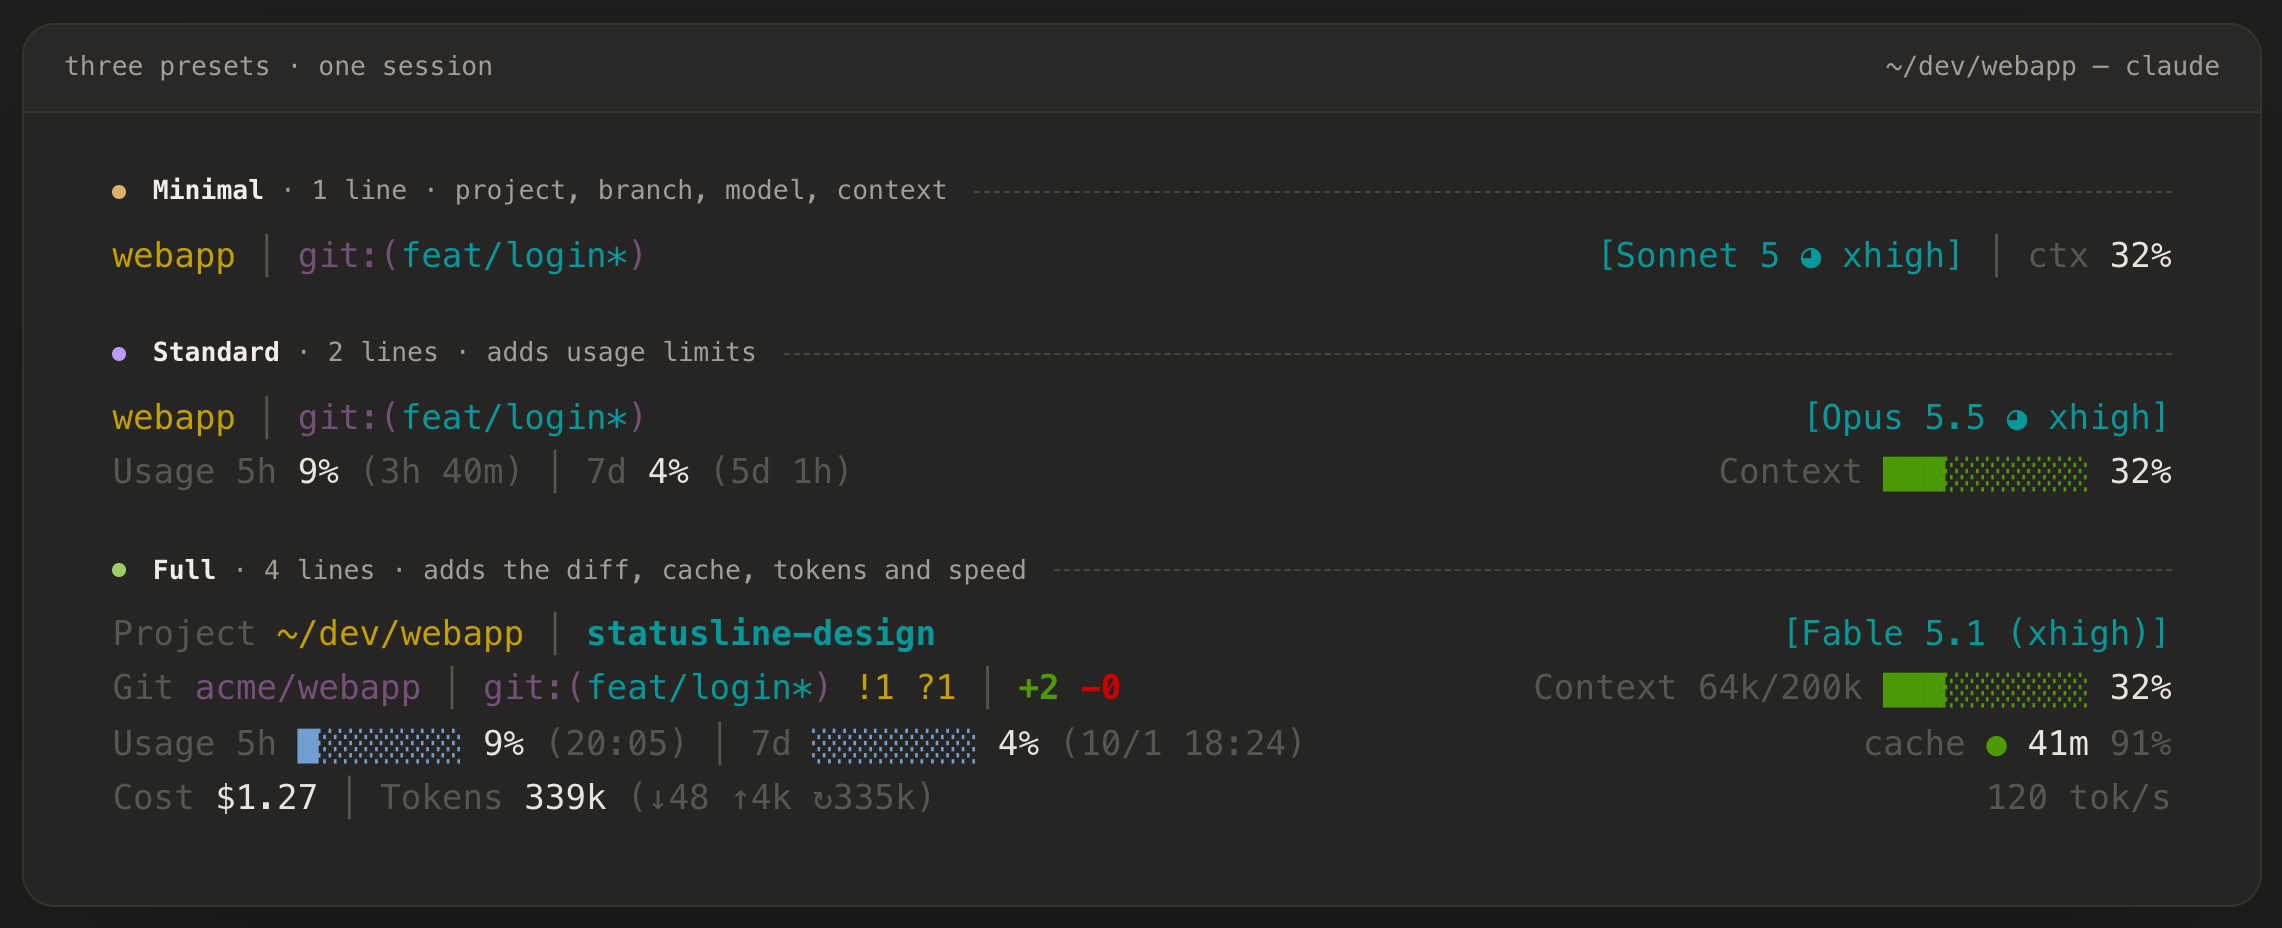
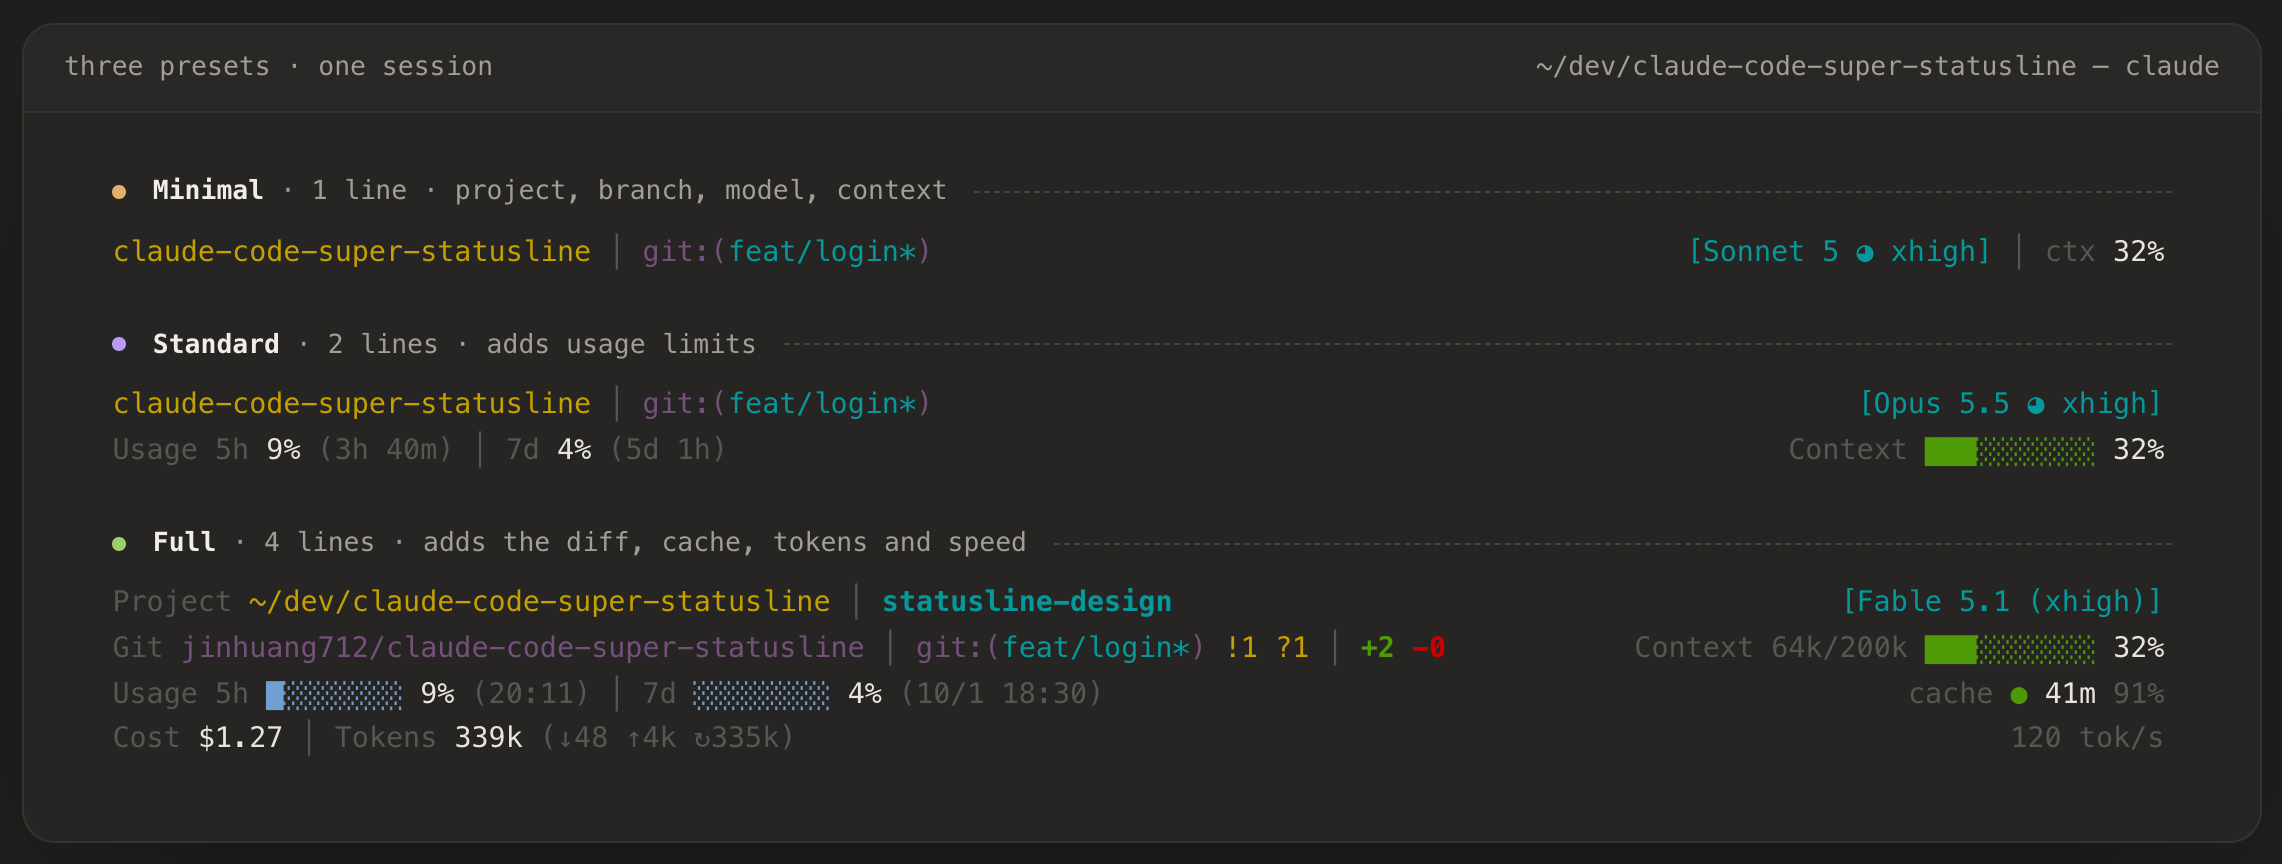
site: the sample session works on claude-code-super-statusline itself (was webapp), laid out at 120 columns
The demo repo, its remote and the session's paths now name this project
(~/dev/claude-code-super-statusline, jinhuang712/claude-code-super-statusline); the fixture's own
workspace.repo is overridden too, since git.repo prefers it over the remote. At 100 columns the
Full preset's Git line no longer fit and the engine cut the diff, so the hero renders at 120.
README presets image re-shot.

Claude-Session: https://claude.ai/code/session_01Ef9C5tJ9YjePBXzLVQHecU

diff --git a/site/build.ts b/site/build.ts
@@ -22,9 +22,17 @@ const OUT = path.join(SITE, "dist");
 const BUILD = path.join(SITE, ".build");
 /** Where the sample session claims to live; node-shims.ts reports the same home to the widgets. */
 const DEMO_HOME = "/Users/you";
-const DEMO_PROJECT = `${DEMO_HOME}/dev/webapp`;
-/** Width the presets are laid out at on the welcome page: a common terminal, and it fits the hero. */
-const PRESET_COLUMNS = 100;
+/** The sample session is spent on this very project, so the page shows super-statusline working on itself. */
+const DEMO_NAME = "claude-code-super-statusline";
+const DEMO_OWNER = "jinhuang712";
+const DEMO_PROJECT = `${DEMO_HOME}/dev/${DEMO_NAME}`;
+/**
+ * Width the presets are laid out at on the welcome page: a common terminal, and it fits the hero.
+ * At 100 the Full preset's second line (the 40-character jinhuang712/claude-code-super-statusline,
+ * branch, file counts, diff, and context on the right) no longer fits, and the engine cuts the diff;
+ * 120 leaves every line whole with room to spare. site/landing.ts scales the font to the terminal.
+ */
+const PRESET_COLUMNS = 120;
 
 // The builder's real home, read before HOME is pointed elsewhere: the leak check below needs it.
 const REAL_HOME = os.homedir();
@@ -41,13 +49,14 @@ function run(cmd: string[], cwd: string): void {
 
 /** A tiny repo on feat/login with one modified and one untracked file: `git:(feat/login*) !1 ?1`. */
 function demoRepo(): string {
-  const dir = path.join(tmp, "webapp");
+  const dir = path.join(tmp, DEMO_NAME);
   fs.mkdirSync(path.join(dir, "src"), { recursive: true });
   fs.writeFileSync(path.join(dir, "src", "login.ts"), "export function login() {\n  return true;\n}\n");
-  fs.writeFileSync(path.join(dir, "README.md"), "# webapp\n");
+  fs.writeFileSync(path.join(dir, "README.md"), `# ${DEMO_NAME}\n`);
   const git = (...args: string[]) => run(["git", "-c", "user.name=demo", "-c", "user.email=demo@example.com", "-c", "init.defaultBranch=main", ...args], dir);
   git("init", "-q");
-  git("remote", "add", "origin", "https://github.com/acme/webapp.git");
+  // Only parsed, never fetched: it gives the branch widget's link its github.com base.
+  git("remote", "add", "origin", `https://github.com/${DEMO_OWNER}/${DEMO_NAME}.git`);
   git("add", "-A");
   git("commit", "-q", "-m", "init");
   git("checkout", "-q", "-b", "feat/login");
@@ -58,7 +67,7 @@ function demoRepo(): string {
 
 /**
  * The precomputed data context, written for the demo and the presets (Dates as { $date }, temp
- * paths rewritten to ~/dev/webapp). Returns the file it wrote.
+ * paths rewritten to ~/dev/claude-code-super-statusline). Returns the file it wrote.
  */
 async function demoContext(): Promise<string> {
   // Imported after HOME is set: some modules resolve their directories on first use.
@@ -69,21 +78,25 @@ async function demoContext(): Promise<string> {
   const file = path.join(ROOT, "src/fixtures/basic.json");
   const now = Date.now();
   const payload = prepareFixture(JSON.parse(fs.readFileSync(file, "utf8")), file, now);
+  // The fixture's own project (~/dev/webapp): its transcript's tool calls name files under it.
+  const fixtureProject = payload.workspace?.project_dir ?? payload.cwd;
   payload.session_id = "demo-session";
   payload.cwd = repo;
-  payload.workspace = { ...payload.workspace, current_dir: repo, project_dir: repo };
+  // The fixture's own repo (acme/webapp) would win over the demo repo's remote in git.repo.
+  payload.workspace = { ...payload.workspace, current_dir: repo, project_dir: repo, repo: { host: "github.com", owner: DEMO_OWNER, name: DEMO_NAME } };
   const ctx = await buildContext(payload, normalizeConfig({ git: { enabled: true, cacheMs: 0 } }), { columns: 120, now, gitDeadlineMs: 10_000 });
   if (!ctx.gitStatus) throw new Error("demo repo: no git status — is git installed?");
 
   const encoded = JSON.stringify(
-    { ctx, sample: { id: "demo", sessionId: "demo-session", cwd: DEMO_PROJECT, project: "webapp", model: "Sonnet 5" } },
+    { ctx, sample: { id: "demo", sessionId: "demo-session", cwd: DEMO_PROJECT, project: DEMO_NAME, model: "Sonnet 5" } },
     function (key, value) {
       const raw = (this as Record<string, unknown>)[key];
       return raw instanceof Date ? { $date: raw.toISOString() } : value;
     },
   )
-    // The session "happened" in ~/dev/webapp, not in this machine's temp dir.
+    // The session "happened" in ~/dev/claude-code-super-statusline, not in this machine's temp dir.
     .split(repo).join(DEMO_PROJECT)
+    .split(fixtureProject).join(DEMO_PROJECT)
     .split(tmp).join(DEMO_HOME)
     .split(os.tmpdir()).join("/tmp");
   if (encoded.includes(REAL_HOME)) throw new Error("demo context mentions the builder's home directory");

diff --git a/site/presets.ts b/site/presets.ts
@@ -143,7 +143,7 @@ const groups = (["minimal", "standard", "full"] as const).map((id) => {
 });
 // One terminal, all three presets (hero option B): each group is a labelled render at `columns`.
 process.stdout.write(`<div class="lp-term" role="img" aria-label="The three presets rendered on a sample session: Minimal on one line, Standard on two, Full on four" data-i18n-aria="term.aria">
-<div class="lp-term-bar" aria-hidden="true"><span data-i18n="term.bar">three presets · one session</span><span class="lp-desk">~/dev/webapp — claude</span><span class="lp-phone" data-i18n="term.swipe">swipe →</span></div>
+<div class="lp-term-bar" aria-hidden="true"><span data-i18n="term.bar">three presets · one session</span><span class="lp-desk">~/dev/claude-code-super-statusline — claude</span><span class="lp-phone" data-i18n="term.swipe">swipe →</span></div>
 <div class="lp-term-body">
 ${groups.join("\n")}
 </div>

diff --git a/site/i18n.ts b/site/i18n.ts
@@ -30,7 +30,7 @@ export const ZH: Record<string, string> = {
   "hero.see": "看看效果",
   "hero.label": "01 · 从预设开始",
   "hero.engine": "真实引擎渲染 · 示例会话",
-  "hero.note": "100 列宽的真实渲染。状态栏从不换行，所以这里可以左右滑动。",
+  "hero.note": "120 列宽的真实渲染。状态栏从不换行，所以这里可以左右滑动。",
   "term.aria": "三个预设在示例会话上的渲染：极简一行，标准两行，完整四行",
   "term.bar": "三个预设 · 同一个会话",
   "term.swipe": "左右滑动 →",

diff --git a/site/index.html b/site/index.html
@@ -85,7 +85,7 @@
         </div>
         <!-- The three presets, rendered by the real engine at build time (site/presets.ts). -->
 <!-- PRESETS -->
-        <p class="lp-note lp-phone" data-i18n="hero.note">Real engine output at 100 columns. A statusline never wraps, so it scrolls sideways here.</p>
+        <p class="lp-note lp-phone" data-i18n="hero.note">Real engine output at 120 columns. A statusline never wraps, so it scrolls sideways here.</p>
       </section>
 
       <section id="arrange" class="lp lp-section lp-wrap" aria-labelledby="arrange-title">
